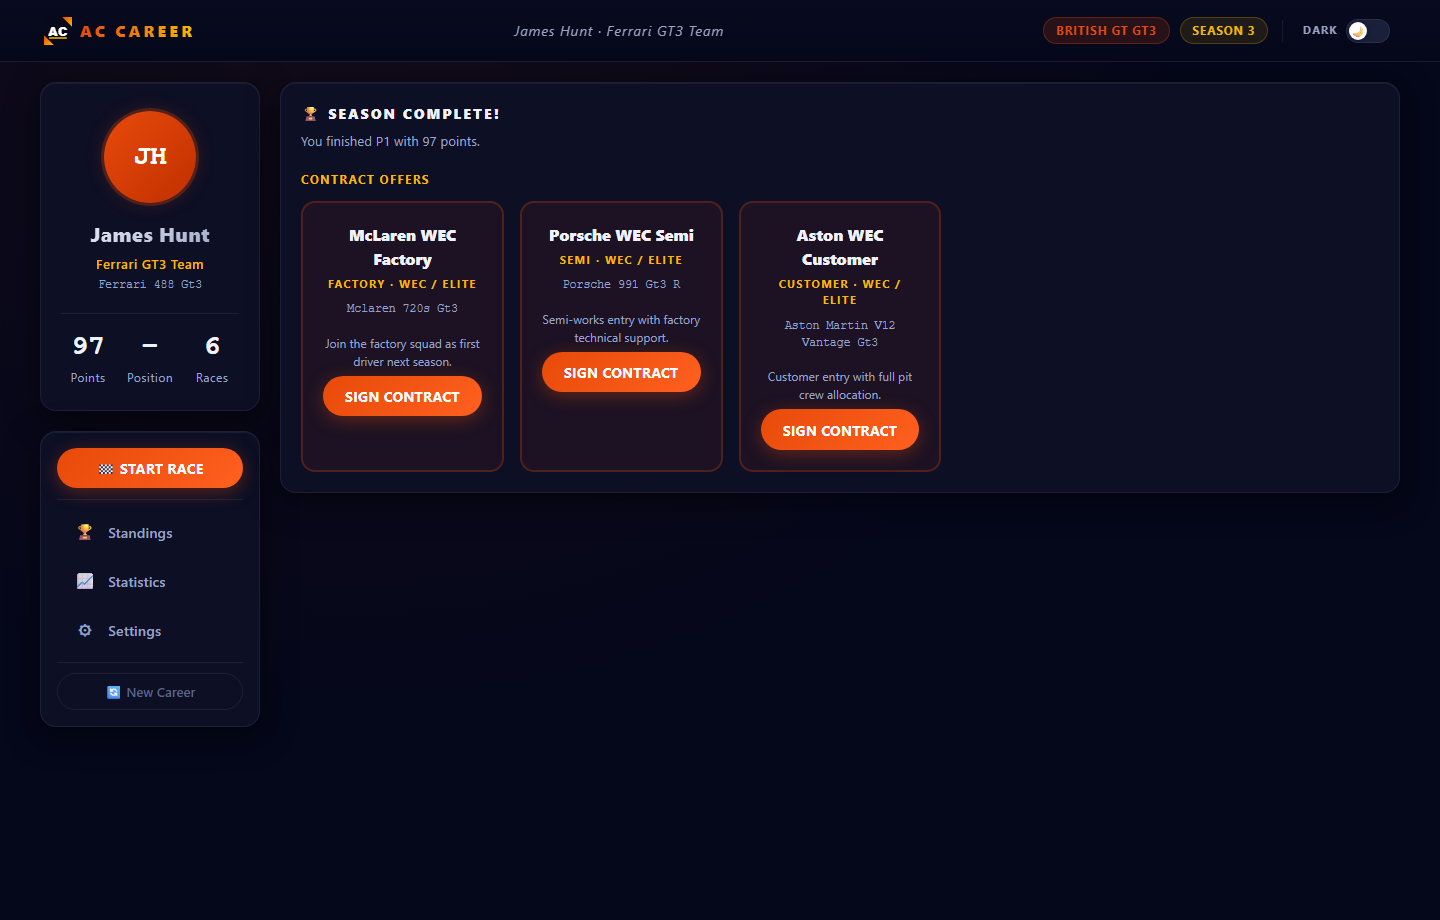
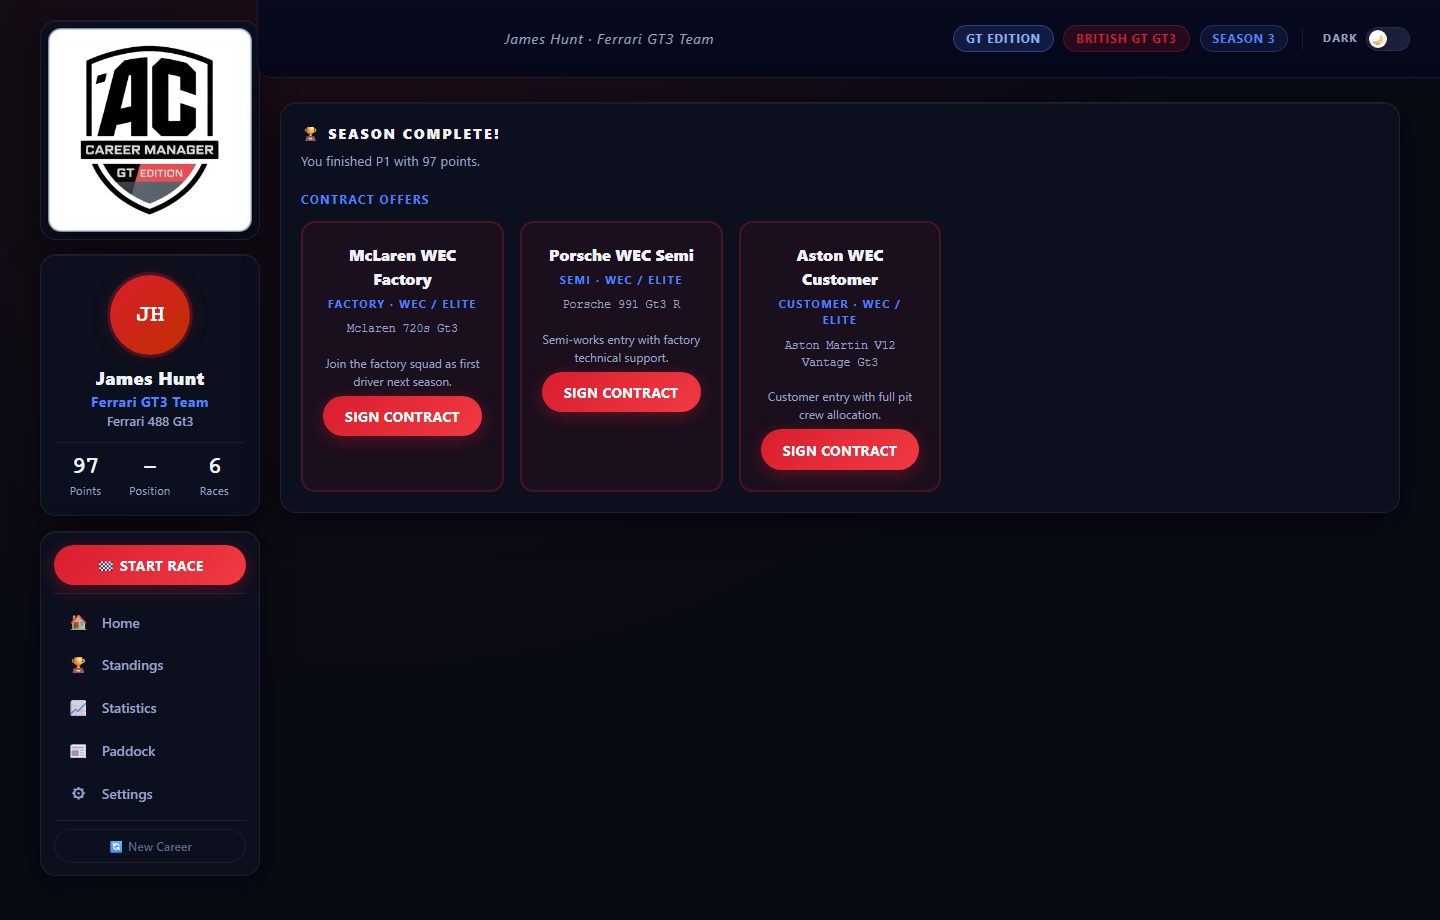
docs: update README with contract details, refresh all screenshots for v1.20.0
Expanded contract offers section in Overview and How to Play with Factory/Semi/
Customer class descriptions and relegation mechanics. Regenerated all 8
screenshots against the current v1.20.0 UI.

diff --git a/README.md b/README.md
@@ -13,7 +13,10 @@ AC Career GT Edition adds a full career mode to Assetto Corsa. It runs in its ow
 
 **Career & Progression**
 - 4-tier ladder: MX5 Cup (12 races) → GT4 (12 races) → GT3 (14 races) → WEC (8 races)
-- End-of-season contracts based on championship finish; real promotion and relegation
+- End-of-season **contract offers** based on championship finish:
+  - Top finishers receive promotion offers from higher-tier teams (Factory / Semi-Factory / Customer)
+  - Bottom finishers face relegation risk: stay at a worse seat or drop to the tier below
+  - Each offer shows the team, car, tier badge, and class (Factory/Semi/Customer)
 - Career Wizard: choose difficulty (Rookie/Amateur/Pro/Legend), weather mode, and scan your AC library for custom track pools
 
 **On Track**
@@ -211,12 +214,16 @@ The app detects [Custom Shader Patch (CSP)](https://acstuff.ru/patch/) and [Pure
 
 ### End of Season
 After completing all races:
-1. Season completes automatically
-2. You receive contract offers based on your championship position:
-   - **Top finishers** → promotion offers from higher-tier teams
-   - **Bottom 3 finishers** → stay offers (worst seat in current tier) and/or relegation offers (top teams in tier below)
-3. Choose which team/car you want next season
-4. Your difficulty/weather settings carry over automatically
+1. Season completes automatically with a summary: final position, points, and season stats
+2. You receive **contract offers** based on your championship position:
+   - **Top finishers** (P1-P5) → 3 promotion offers from higher-tier teams: Factory, Semi-Factory, and Customer seats
+   - **Mid-field** → lateral offers within your current tier
+   - **Bottom 3 finishers** → relegation risk: worst seat in current tier + offers from the best teams in the tier below
+   - At WEC (top tier): no promotion possible, only retention or relegation
+   - At MX5 Cup (bottom tier): no relegation possible, only promotion
+3. Each contract card shows: team name, car, tier badge with class label (Factory / Semi / Customer)
+4. Choose which team/car you want next season
+5. Your difficulty, weather settings, and custom track pools carry over automatically
 
 ### Championship Points (F1 standard)
 P1: 25 · P2: 18 · P3: 15 · P4: 12 · P5: 10 · P6: 8 · P7: 6 · P8: 4 · P9: 2 · P10: 1
